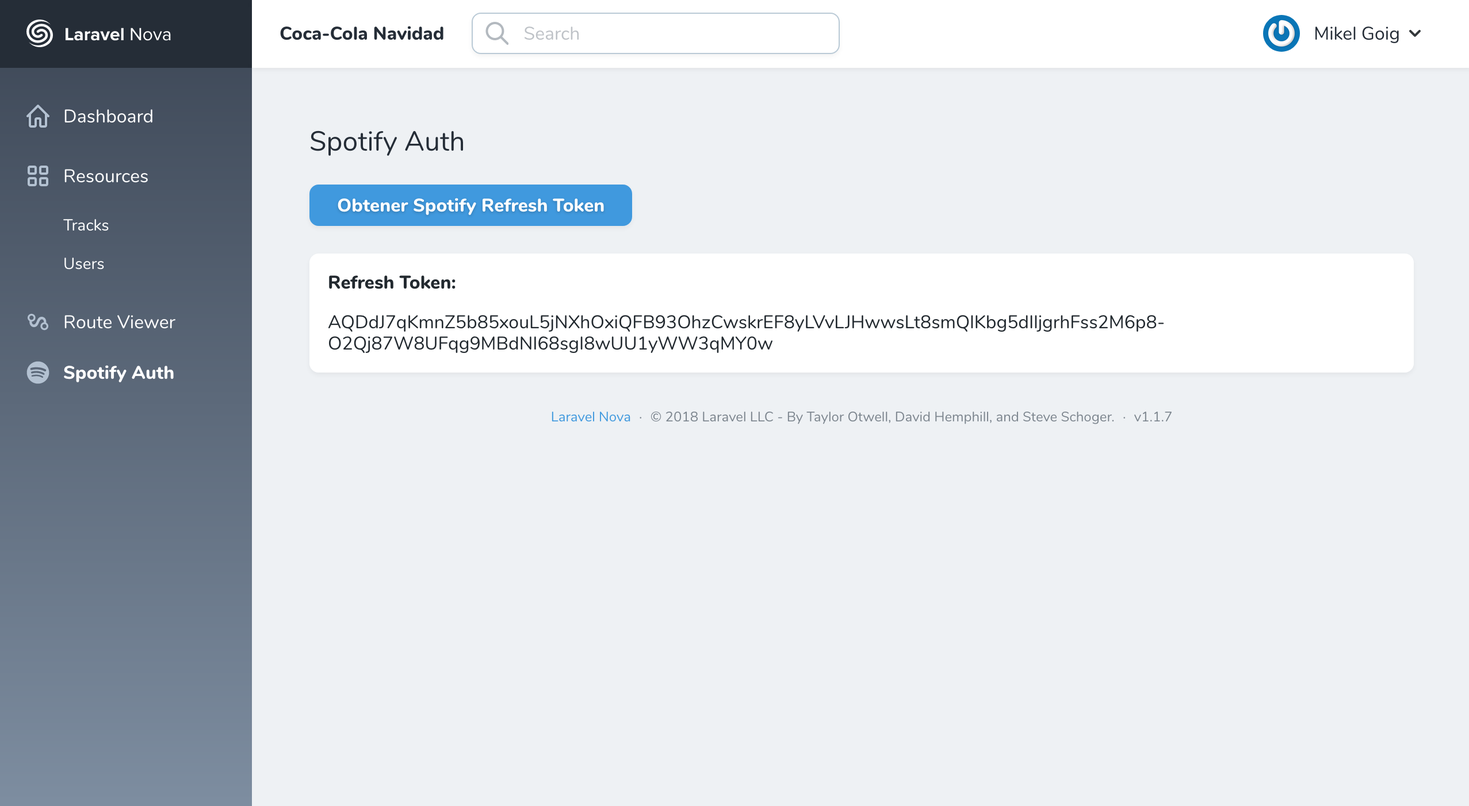
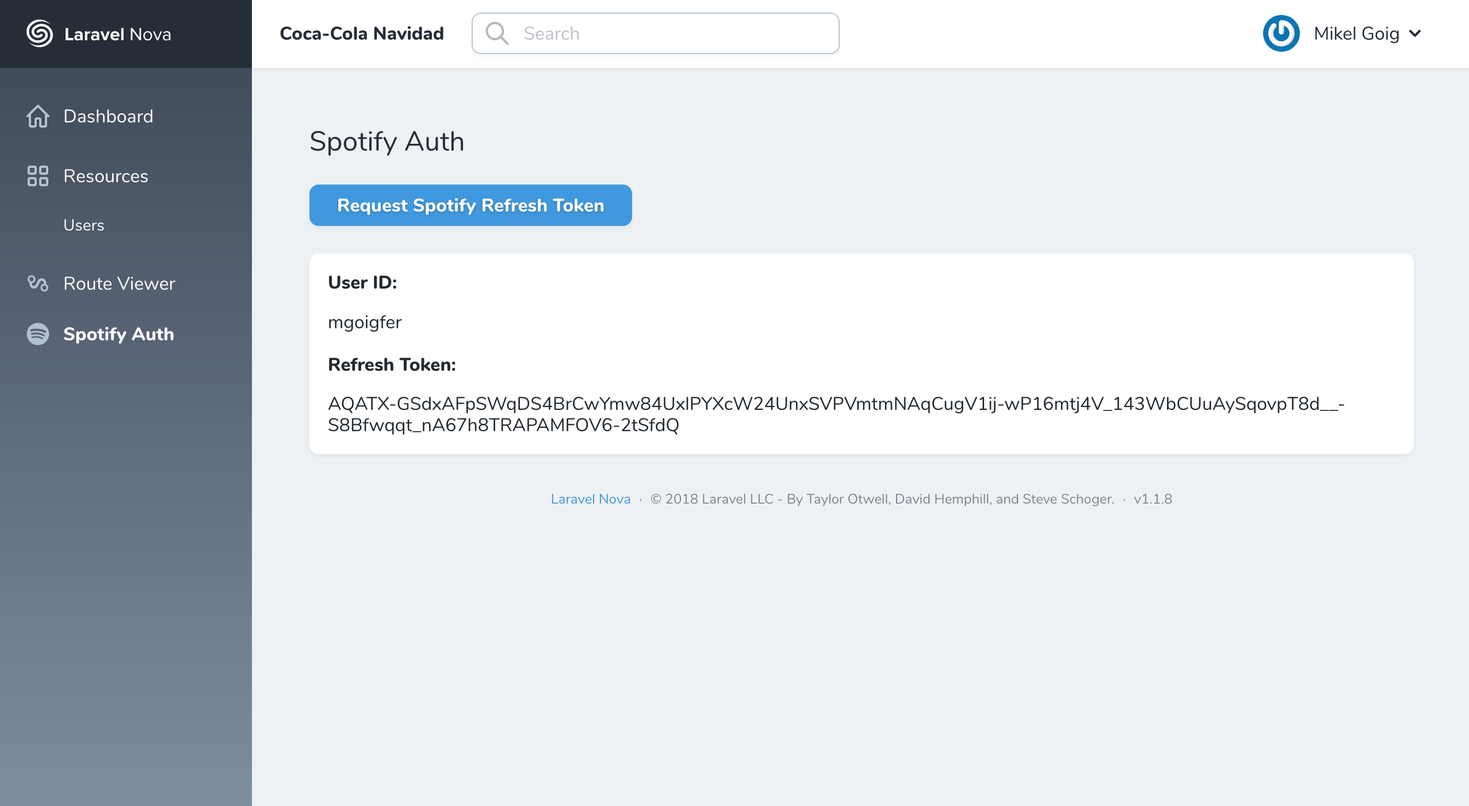
Request Spotify user ID

diff --git a/dist/js/tool.js b/dist/js/tool.js
@@ -1,1 +1,1 @@
-!function(t){var e={};function r(n){if(e[n])return e[n].exports;var o=e[n]={i:n,l:!1,exports:{}};return t[n].call(o.exports,o,o.exports,r),o.l=!0,o.exports}r.m=t,r.c=e,r.d=function(t,e,n){r.o(t,e)||Object.defineProperty(t,e,{configurable:!1,enumerable:!0,get:n})},r.n=function(t){var e=t&&t.__esModule?function(){return t.default}:function(){return t};return r.d(e,"a",e),e},r.o=function(t,e){return Object.prototype.hasOwnProperty.call(t,e)},r.p="",r(r.s=0)}([function(t,e,r){r(1),t.exports=r(9)},function(t,e,r){Nova.booting(function(t,e){e.addRoutes([{name:"nova-spotify-auth-tool",path:"/nova-spotify-auth-tool",component:r(2)}])})},function(t,e,r){var n=r(3)(r(4),r(8),!1,null,null,null);t.exports=n.exports},function(t,e){t.exports=function(t,e,r,n,o,i){var a,c=t=t||{},u=typeof t.default;"object"!==u&&"function"!==u||(a=t,c=t.default);var s,f="function"==typeof c?c.options:c;if(e&&(f.render=e.render,f.staticRenderFns=e.staticRenderFns,f._compiled=!0),r&&(f.functional=!0),o&&(f._scopeId=o),i?(s=function(t){(t=t||this.$vnode&&this.$vnode.ssrContext||this.parent&&this.parent.$vnode&&this.parent.$vnode.ssrContext)||"undefined"==typeof __VUE_SSR_CONTEXT__||(t=__VUE_SSR_CONTEXT__),n&&n.call(this,t),t&&t._registeredComponents&&t._registeredComponents.add(i)},f._ssrRegister=s):n&&(s=n),s){var h=f.functional,l=h?f.render:f.beforeCreate;h?(f._injectStyles=s,f.render=function(t,e){return s.call(e),l(t,e)}):f.beforeCreate=l?[].concat(l,s):[s]}return{esModule:a,exports:c,options:f}}},function(t,e,r){"use strict";Object.defineProperty(e,"__esModule",{value:!0});var n=r(5),o=r.n(n);e.default={data:function(){return{refreshToken:""}},mounted:function(){this.getRefreshToken()},methods:{getRefreshToken:function(){var t,e=(t=o.a.mark(function t(){var e;return o.a.wrap(function(t){for(;;)switch(t.prev=t.next){case 0:return t.next=2,Nova.request().get("/nova-vendor/nova-spotify-auth-tool/refresh-token");case 2:e=t.sent,this.refreshToken=e.data;case 4:case"end":return t.stop()}},t,this)}),function(){var e=t.apply(this,arguments);return new Promise(function(t,r){return function n(o,i){try{var a=e[o](i),c=a.value}catch(t){return void r(t)}if(!a.done)return Promise.resolve(c).then(function(t){n("next",t)},function(t){n("throw",t)});t(c)}("next")})});return function(){return e.apply(this,arguments)}}(),requestSpotifyRefreshToken:function(){window.location.href="/nova-vendor/nova-spotify-auth-tool/auth"}}}},function(t,e,r){t.exports=r(6)},function(t,e,r){var n=function(){return this}()||Function("return this")(),o=n.regeneratorRuntime&&Object.getOwnPropertyNames(n).indexOf("regeneratorRuntime")>=0,i=o&&n.regeneratorRuntime;if(n.regeneratorRuntime=void 0,t.exports=r(7),o)n.regeneratorRuntime=i;else try{delete n.regeneratorRuntime}catch(t){n.regeneratorRuntime=void 0}},function(t,e){!function(e){"use strict";var r,n=Object.prototype,o=n.hasOwnProperty,i="function"==typeof Symbol?Symbol:{},a=i.iterator||"@@iterator",c=i.asyncIterator||"@@asyncIterator",u=i.toStringTag||"@@toStringTag",s="object"==typeof t,f=e.regeneratorRuntime;if(f)s&&(t.exports=f);else{(f=e.regeneratorRuntime=s?t.exports:{}).wrap=x;var h="suspendedStart",l="suspendedYield",p="executing",d="completed",v={},y={};y[a]=function(){return this};var g=Object.getPrototypeOf,m=g&&g(g(C([])));m&&m!==n&&o.call(m,a)&&(y=m);var w=E.prototype=b.prototype=Object.create(y);L.prototype=w.constructor=E,E.constructor=L,E[u]=L.displayName="GeneratorFunction",f.isGeneratorFunction=function(t){var e="function"==typeof t&&t.constructor;return!!e&&(e===L||"GeneratorFunction"===(e.displayName||e.name))},f.mark=function(t){return Object.setPrototypeOf?Object.setPrototypeOf(t,E):(t.__proto__=E,u in t||(t[u]="GeneratorFunction")),t.prototype=Object.create(w),t},f.awrap=function(t){return{__await:t}},R(k.prototype),k.prototype[c]=function(){return this},f.AsyncIterator=k,f.async=function(t,e,r,n){var o=new k(x(t,e,r,n));return f.isGeneratorFunction(e)?o:o.next().then(function(t){return t.done?t.value:o.next()})},R(w),w[u]="Generator",w[a]=function(){return this},w.toString=function(){return"[object Generator]"},f.keys=function(t){var e=[];for(var r in t)e.push(r);return e.reverse(),function r(){for(;e.length;){var n=e.pop();if(n in t)return r.value=n,r.done=!1,r}return r.done=!0,r}},f.values=C,S.prototype={constructor:S,reset:function(t){if(this.prev=0,this.next=0,this.sent=this._sent=r,this.done=!1,this.delegate=null,this.method="next",this.arg=r,this.tryEntries.forEach(j),!t)for(var e in this)"t"===e.charAt(0)&&o.call(this,e)&&!isNaN(+e.slice(1))&&(this[e]=r)},stop:function(){this.done=!0;var t=this.tryEntries[0].completion;if("throw"===t.type)throw t.arg;return this.rval},dispatchException:function(t){if(this.done)throw t;var e=this;function n(n,o){return c.type="throw",c.arg=t,e.next=n,o&&(e.method="next",e.arg=r),!!o}for(var i=this.tryEntries.length-1;i>=0;--i){var a=this.tryEntries[i],c=a.completion;if("root"===a.tryLoc)return n("end");if(a.tryLoc<=this.prev){var u=o.call(a,"catchLoc"),s=o.call(a,"finallyLoc");if(u&&s){if(this.prev<a.catchLoc)return n(a.catchLoc,!0);if(this.prev<a.finallyLoc)return n(a.finallyLoc)}else if(u){if(this.prev<a.catchLoc)return n(a.catchLoc,!0)}else{if(!s)throw new Error("try statement without catch or finally");if(this.prev<a.finallyLoc)return n(a.finallyLoc)}}}},abrupt:function(t,e){for(var r=this.tryEntries.length-1;r>=0;--r){var n=this.tryEntries[r];if(n.tryLoc<=this.prev&&o.call(n,"finallyLoc")&&this.prev<n.finallyLoc){var i=n;break}}i&&("break"===t||"continue"===t)&&i.tryLoc<=e&&e<=i.finallyLoc&&(i=null);var a=i?i.completion:{};return a.type=t,a.arg=e,i?(this.method="next",this.next=i.finallyLoc,v):this.complete(a)},complete:function(t,e){if("throw"===t.type)throw t.arg;return"break"===t.type||"continue"===t.type?this.next=t.arg:"return"===t.type?(this.rval=this.arg=t.arg,this.method="return",this.next="end"):"normal"===t.type&&e&&(this.next=e),v},finish:function(t){for(var e=this.tryEntries.length-1;e>=0;--e){var r=this.tryEntries[e];if(r.finallyLoc===t)return this.complete(r.completion,r.afterLoc),j(r),v}},catch:function(t){for(var e=this.tryEntries.length-1;e>=0;--e){var r=this.tryEntries[e];if(r.tryLoc===t){var n=r.completion;if("throw"===n.type){var o=n.arg;j(r)}return o}}throw new Error("illegal catch attempt")},delegateYield:function(t,e,n){return this.delegate={iterator:C(t),resultName:e,nextLoc:n},"next"===this.method&&(this.arg=r),v}}}function x(t,e,r,n){var o=e&&e.prototype instanceof b?e:b,i=Object.create(o.prototype),a=new S(n||[]);return i._invoke=function(t,e,r){var n=h;return function(o,i){if(n===p)throw new Error("Generator is already running");if(n===d){if("throw"===o)throw i;return N()}for(r.method=o,r.arg=i;;){var a=r.delegate;if(a){var c=O(a,r);if(c){if(c===v)continue;return c}}if("next"===r.method)r.sent=r._sent=r.arg;else if("throw"===r.method){if(n===h)throw n=d,r.arg;r.dispatchException(r.arg)}else"return"===r.method&&r.abrupt("return",r.arg);n=p;var u=_(t,e,r);if("normal"===u.type){if(n=r.done?d:l,u.arg===v)continue;return{value:u.arg,done:r.done}}"throw"===u.type&&(n=d,r.method="throw",r.arg=u.arg)}}}(t,r,a),i}function _(t,e,r){try{return{type:"normal",arg:t.call(e,r)}}catch(t){return{type:"throw",arg:t}}}function b(){}function L(){}function E(){}function R(t){["next","throw","return"].forEach(function(e){t[e]=function(t){return this._invoke(e,t)}})}function k(t){var e;this._invoke=function(r,n){function i(){return new Promise(function(e,i){!function e(r,n,i,a){var c=_(t[r],t,n);if("throw"!==c.type){var u=c.arg,s=u.value;return s&&"object"==typeof s&&o.call(s,"__await")?Promise.resolve(s.__await).then(function(t){e("next",t,i,a)},function(t){e("throw",t,i,a)}):Promise.resolve(s).then(function(t){u.value=t,i(u)},a)}a(c.arg)}(r,n,e,i)})}return e=e?e.then(i,i):i()}}function O(t,e){var n=t.iterator[e.method];if(n===r){if(e.delegate=null,"throw"===e.method){if(t.iterator.return&&(e.method="return",e.arg=r,O(t,e),"throw"===e.method))return v;e.method="throw",e.arg=new TypeError("The iterator does not provide a 'throw' method")}return v}var o=_(n,t.iterator,e.arg);if("throw"===o.type)return e.method="throw",e.arg=o.arg,e.delegate=null,v;var i=o.arg;return i?i.done?(e[t.resultName]=i.value,e.next=t.nextLoc,"return"!==e.method&&(e.method="next",e.arg=r),e.delegate=null,v):i:(e.method="throw",e.arg=new TypeError("iterator result is not an object"),e.delegate=null,v)}function T(t){var e={tryLoc:t[0]};1 in t&&(e.catchLoc=t[1]),2 in t&&(e.finallyLoc=t[2],e.afterLoc=t[3]),this.tryEntries.push(e)}function j(t){var e=t.completion||{};e.type="normal",delete e.arg,t.completion=e}function S(t){this.tryEntries=[{tryLoc:"root"}],t.forEach(T,this),this.reset(!0)}function C(t){if(t){var e=t[a];if(e)return e.call(t);if("function"==typeof t.next)return t;if(!isNaN(t.length)){var n=-1,i=function e(){for(;++n<t.length;)if(o.call(t,n))return e.value=t[n],e.done=!1,e;return e.value=r,e.done=!0,e};return i.next=i}}return{next:N}}function N(){return{value:r,done:!0}}}(function(){return this}()||Function("return this")())},function(t,e){t.exports={render:function(){var t=this,e=t.$createElement,r=t._self._c||e;return r("div",[r("heading",{staticClass:"mb-6"},[t._v("Spotify Auth")]),t._v(" "),r("div",{staticClass:"flex"},[r("span",{staticClass:"mb-6"},[r("button",{staticClass:"btn btn-default btn-primary",on:{click:t.requestSpotifyRefreshToken}},[t._v("\n        Obtener Spotify Refresh Token\n      ")])])]),t._v(" "),r("card",{staticClass:"p-4"},[r("p",{staticClass:"mb-4 font-bold"},[t._v("\n      Refresh Token:\n    ")]),t._v(" "),r("p",{staticStyle:{"overflow-wrap":"break-word"}},[t._v("\n      "+t._s(t.refreshToken)+"\n    ")])])],1)},staticRenderFns:[]}},function(t,e){}]);
+!function(t){var e={};function r(n){if(e[n])return e[n].exports;var o=e[n]={i:n,l:!1,exports:{}};return t[n].call(o.exports,o,o.exports,r),o.l=!0,o.exports}r.m=t,r.c=e,r.d=function(t,e,n){r.o(t,e)||Object.defineProperty(t,e,{configurable:!1,enumerable:!0,get:n})},r.n=function(t){var e=t&&t.__esModule?function(){return t.default}:function(){return t};return r.d(e,"a",e),e},r.o=function(t,e){return Object.prototype.hasOwnProperty.call(t,e)},r.p="",r(r.s=0)}([function(t,e,r){r(1),t.exports=r(9)},function(t,e,r){Nova.booting(function(t,e){e.addRoutes([{name:"nova-spotify-auth-tool",path:"/nova-spotify-auth-tool",component:r(2)}])})},function(t,e,r){var n=r(3)(r(4),r(8),!1,null,null,null);t.exports=n.exports},function(t,e){t.exports=function(t,e,r,n,o,i){var a,u=t=t||{},c=typeof t.default;"object"!==c&&"function"!==c||(a=t,u=t.default);var s,f="function"==typeof u?u.options:u;if(e&&(f.render=e.render,f.staticRenderFns=e.staticRenderFns,f._compiled=!0),r&&(f.functional=!0),o&&(f._scopeId=o),i?(s=function(t){(t=t||this.$vnode&&this.$vnode.ssrContext||this.parent&&this.parent.$vnode&&this.parent.$vnode.ssrContext)||"undefined"==typeof __VUE_SSR_CONTEXT__||(t=__VUE_SSR_CONTEXT__),n&&n.call(this,t),t&&t._registeredComponents&&t._registeredComponents.add(i)},f._ssrRegister=s):n&&(s=n),s){var h=f.functional,l=h?f.render:f.beforeCreate;h?(f._injectStyles=s,f.render=function(t,e){return s.call(e),l(t,e)}):f.beforeCreate=l?[].concat(l,s):[s]}return{esModule:a,exports:u,options:f}}},function(t,e,r){"use strict";Object.defineProperty(e,"__esModule",{value:!0});var n=r(5),o=r.n(n);function i(t){return function(){var e=t.apply(this,arguments);return new Promise(function(t,r){return function n(o,i){try{var a=e[o](i),u=a.value}catch(t){return void r(t)}if(!a.done)return Promise.resolve(u).then(function(t){n("next",t)},function(t){n("throw",t)});t(u)}("next")})}}e.default={data:function(){return{refreshToken:"",userId:""}},mounted:function(){this.getUserId(),this.getRefreshToken()},methods:{getRefreshToken:function(){var t=i(o.a.mark(function t(){var e;return o.a.wrap(function(t){for(;;)switch(t.prev=t.next){case 0:return t.next=2,Nova.request().get("/nova-vendor/nova-spotify-auth-tool/refresh-token");case 2:e=t.sent,this.refreshToken=e.data;case 4:case"end":return t.stop()}},t,this)}));return function(){return t.apply(this,arguments)}}(),getUserId:function(){var t=i(o.a.mark(function t(){var e;return o.a.wrap(function(t){for(;;)switch(t.prev=t.next){case 0:return t.next=2,Nova.request().get("/nova-vendor/nova-spotify-auth-tool/user-id");case 2:e=t.sent,this.userId=e.data;case 4:case"end":return t.stop()}},t,this)}));return function(){return t.apply(this,arguments)}}(),requestSpotifyRefreshToken:function(){window.location.href="/nova-vendor/nova-spotify-auth-tool/auth"}}}},function(t,e,r){t.exports=r(6)},function(t,e,r){var n=function(){return this}()||Function("return this")(),o=n.regeneratorRuntime&&Object.getOwnPropertyNames(n).indexOf("regeneratorRuntime")>=0,i=o&&n.regeneratorRuntime;if(n.regeneratorRuntime=void 0,t.exports=r(7),o)n.regeneratorRuntime=i;else try{delete n.regeneratorRuntime}catch(t){n.regeneratorRuntime=void 0}},function(t,e){!function(e){"use strict";var r,n=Object.prototype,o=n.hasOwnProperty,i="function"==typeof Symbol?Symbol:{},a=i.iterator||"@@iterator",u=i.asyncIterator||"@@asyncIterator",c=i.toStringTag||"@@toStringTag",s="object"==typeof t,f=e.regeneratorRuntime;if(f)s&&(t.exports=f);else{(f=e.regeneratorRuntime=s?t.exports:{}).wrap=_;var h="suspendedStart",l="suspendedYield",p="executing",v="completed",d={},y={};y[a]=function(){return this};var g=Object.getPrototypeOf,m=g&&g(g(C([])));m&&m!==n&&o.call(m,a)&&(y=m);var w=E.prototype=b.prototype=Object.create(y);L.prototype=w.constructor=E,E.constructor=L,E[c]=L.displayName="GeneratorFunction",f.isGeneratorFunction=function(t){var e="function"==typeof t&&t.constructor;return!!e&&(e===L||"GeneratorFunction"===(e.displayName||e.name))},f.mark=function(t){return Object.setPrototypeOf?Object.setPrototypeOf(t,E):(t.__proto__=E,c in t||(t[c]="GeneratorFunction")),t.prototype=Object.create(w),t},f.awrap=function(t){return{__await:t}},k(R.prototype),R.prototype[u]=function(){return this},f.AsyncIterator=R,f.async=function(t,e,r,n){var o=new R(_(t,e,r,n));return f.isGeneratorFunction(e)?o:o.next().then(function(t){return t.done?t.value:o.next()})},k(w),w[c]="Generator",w[a]=function(){return this},w.toString=function(){return"[object Generator]"},f.keys=function(t){var e=[];for(var r in t)e.push(r);return e.reverse(),function r(){for(;e.length;){var n=e.pop();if(n in t)return r.value=n,r.done=!1,r}return r.done=!0,r}},f.values=C,S.prototype={constructor:S,reset:function(t){if(this.prev=0,this.next=0,this.sent=this._sent=r,this.done=!1,this.delegate=null,this.method="next",this.arg=r,this.tryEntries.forEach(j),!t)for(var e in this)"t"===e.charAt(0)&&o.call(this,e)&&!isNaN(+e.slice(1))&&(this[e]=r)},stop:function(){this.done=!0;var t=this.tryEntries[0].completion;if("throw"===t.type)throw t.arg;return this.rval},dispatchException:function(t){if(this.done)throw t;var e=this;function n(n,o){return u.type="throw",u.arg=t,e.next=n,o&&(e.method="next",e.arg=r),!!o}for(var i=this.tryEntries.length-1;i>=0;--i){var a=this.tryEntries[i],u=a.completion;if("root"===a.tryLoc)return n("end");if(a.tryLoc<=this.prev){var c=o.call(a,"catchLoc"),s=o.call(a,"finallyLoc");if(c&&s){if(this.prev<a.catchLoc)return n(a.catchLoc,!0);if(this.prev<a.finallyLoc)return n(a.finallyLoc)}else if(c){if(this.prev<a.catchLoc)return n(a.catchLoc,!0)}else{if(!s)throw new Error("try statement without catch or finally");if(this.prev<a.finallyLoc)return n(a.finallyLoc)}}}},abrupt:function(t,e){for(var r=this.tryEntries.length-1;r>=0;--r){var n=this.tryEntries[r];if(n.tryLoc<=this.prev&&o.call(n,"finallyLoc")&&this.prev<n.finallyLoc){var i=n;break}}i&&("break"===t||"continue"===t)&&i.tryLoc<=e&&e<=i.finallyLoc&&(i=null);var a=i?i.completion:{};return a.type=t,a.arg=e,i?(this.method="next",this.next=i.finallyLoc,d):this.complete(a)},complete:function(t,e){if("throw"===t.type)throw t.arg;return"break"===t.type||"continue"===t.type?this.next=t.arg:"return"===t.type?(this.rval=this.arg=t.arg,this.method="return",this.next="end"):"normal"===t.type&&e&&(this.next=e),d},finish:function(t){for(var e=this.tryEntries.length-1;e>=0;--e){var r=this.tryEntries[e];if(r.finallyLoc===t)return this.complete(r.completion,r.afterLoc),j(r),d}},catch:function(t){for(var e=this.tryEntries.length-1;e>=0;--e){var r=this.tryEntries[e];if(r.tryLoc===t){var n=r.completion;if("throw"===n.type){var o=n.arg;j(r)}return o}}throw new Error("illegal catch attempt")},delegateYield:function(t,e,n){return this.delegate={iterator:C(t),resultName:e,nextLoc:n},"next"===this.method&&(this.arg=r),d}}}function _(t,e,r,n){var o=e&&e.prototype instanceof b?e:b,i=Object.create(o.prototype),a=new S(n||[]);return i._invoke=function(t,e,r){var n=h;return function(o,i){if(n===p)throw new Error("Generator is already running");if(n===v){if("throw"===o)throw i;return N()}for(r.method=o,r.arg=i;;){var a=r.delegate;if(a){var u=O(a,r);if(u){if(u===d)continue;return u}}if("next"===r.method)r.sent=r._sent=r.arg;else if("throw"===r.method){if(n===h)throw n=v,r.arg;r.dispatchException(r.arg)}else"return"===r.method&&r.abrupt("return",r.arg);n=p;var c=x(t,e,r);if("normal"===c.type){if(n=r.done?v:l,c.arg===d)continue;return{value:c.arg,done:r.done}}"throw"===c.type&&(n=v,r.method="throw",r.arg=c.arg)}}}(t,r,a),i}function x(t,e,r){try{return{type:"normal",arg:t.call(e,r)}}catch(t){return{type:"throw",arg:t}}}function b(){}function L(){}function E(){}function k(t){["next","throw","return"].forEach(function(e){t[e]=function(t){return this._invoke(e,t)}})}function R(t){var e;this._invoke=function(r,n){function i(){return new Promise(function(e,i){!function e(r,n,i,a){var u=x(t[r],t,n);if("throw"!==u.type){var c=u.arg,s=c.value;return s&&"object"==typeof s&&o.call(s,"__await")?Promise.resolve(s.__await).then(function(t){e("next",t,i,a)},function(t){e("throw",t,i,a)}):Promise.resolve(s).then(function(t){c.value=t,i(c)},a)}a(u.arg)}(r,n,e,i)})}return e=e?e.then(i,i):i()}}function O(t,e){var n=t.iterator[e.method];if(n===r){if(e.delegate=null,"throw"===e.method){if(t.iterator.return&&(e.method="return",e.arg=r,O(t,e),"throw"===e.method))return d;e.method="throw",e.arg=new TypeError("The iterator does not provide a 'throw' method")}return d}var o=x(n,t.iterator,e.arg);if("throw"===o.type)return e.method="throw",e.arg=o.arg,e.delegate=null,d;var i=o.arg;return i?i.done?(e[t.resultName]=i.value,e.next=t.nextLoc,"return"!==e.method&&(e.method="next",e.arg=r),e.delegate=null,d):i:(e.method="throw",e.arg=new TypeError("iterator result is not an object"),e.delegate=null,d)}function T(t){var e={tryLoc:t[0]};1 in t&&(e.catchLoc=t[1]),2 in t&&(e.finallyLoc=t[2],e.afterLoc=t[3]),this.tryEntries.push(e)}function j(t){var e=t.completion||{};e.type="normal",delete e.arg,t.completion=e}function S(t){this.tryEntries=[{tryLoc:"root"}],t.forEach(T,this),this.reset(!0)}function C(t){if(t){var e=t[a];if(e)return e.call(t);if("function"==typeof t.next)return t;if(!isNaN(t.length)){var n=-1,i=function e(){for(;++n<t.length;)if(o.call(t,n))return e.value=t[n],e.done=!1,e;return e.value=r,e.done=!0,e};return i.next=i}}return{next:N}}function N(){return{value:r,done:!0}}}(function(){return this}()||Function("return this")())},function(t,e){t.exports={render:function(){var t=this,e=t.$createElement,r=t._self._c||e;return r("div",[r("heading",{staticClass:"mb-6"},[t._v("Spotify Auth")]),t._v(" "),r("div",{staticClass:"flex"},[r("span",{staticClass:"mb-6"},[r("button",{staticClass:"btn btn-default btn-primary",on:{click:t.requestSpotifyRefreshToken}},[t._v("\n        Request Spotify Refresh Token\n      ")])])]),t._v(" "),r("card",{staticClass:"p-4"},[r("p",{staticClass:"mb-4 font-bold"},[t._v("\n      User ID:\n    ")]),t._v(" "),r("p",{staticStyle:{"overflow-wrap":"break-word"}},[t._v("\n      "+t._s(t.userId)+"\n    ")]),t._v(" "),r("br"),t._v(" "),r("p",{staticClass:"mb-4 font-bold"},[t._v("\n      Refresh Token:\n    ")]),t._v(" "),r("p",{staticStyle:{"overflow-wrap":"break-word"}},[t._v("\n      "+t._s(t.refreshToken)+"\n    ")])])],1)},staticRenderFns:[]}},function(t,e){}]);

diff --git a/resources/js/components/Tool.vue b/resources/js/components/Tool.vue
@@ -8,12 +8,22 @@
           class="btn btn-default btn-primary"
           @click="requestSpotifyRefreshToken"
         >
-          Obtener Spotify Refresh Token
+          Request Spotify Refresh Token
         </button>
       </span>
     </div>
 
     <card class="p-4">
+      <p class="mb-4 font-bold">
+        User ID:
+      </p>
+
+      <p style="overflow-wrap: break-word;">
+        {{ userId }}
+      </p>
+
+      <br>
+
       <p class="mb-4 font-bold">
         Refresh Token:
       </p>
@@ -32,16 +42,22 @@ export default {
   data() {
     return {
       refreshToken: '',
+      userId: '',
     };
   },
 
   mounted() {
+    this.getUserId();
     this.getRefreshToken();
   },
 
   methods: {
     async getRefreshToken() {
       ({ data: this.refreshToken } = await Nova.request().get('/nova-vendor/nova-spotify-auth-tool/refresh-token'));
+    },
+
+    async getUserId() {
+      ({ data: this.userId } = await Nova.request().get('/nova-vendor/nova-spotify-auth-tool/user-id'));
     },
 
     requestSpotifyRefreshToken() {

diff --git a/src/Models/Spotify.php b/src/Models/Spotify.php
@@ -1,0 +1,114 @@
+<?php
+
+namespace Mgoigfer\SpotifyAuthTool\Models;
+
+use Illuminate\Database\Eloquent\Model;
+use Illuminate\Database\Eloquent\ModelNotFoundException;
+
+class Spotify extends Model
+{
+    /*
+    |--------------------------------------------------------------------------
+    | Model Properties
+    |--------------------------------------------------------------------------
+    */
+
+    /**
+     * The table associated with the model.
+     *
+     * @var string
+     */
+    protected $table = 'spotify';
+
+    /**
+     * The primary key for the model.
+     *
+     * @var string
+     */
+    protected $primaryKey = 'key';
+
+    /**
+     * The "type" of the auto-incrementing ID.
+     *
+     * @var string
+     */
+    protected $keyType = 'string';
+
+    /**
+     * Indicates if the IDs are auto-incrementing.
+     *
+     * @var bool
+     */
+    public $incrementing = false;
+
+    /**
+     * Indicates if the model should be timestamped.
+     *
+     * @var bool
+     */
+    public $timestamps = false;
+
+    /**
+     * The guarded attributes on the model.
+     *
+     * @var array
+     */
+    protected $guarded = [];
+
+    /**
+     * Convert the model instance to an array.
+     *
+     * @return array
+     */
+    public function toArray()
+    {
+        return [
+            'key' => $this->key,
+            'value' => $this->value,
+        ];
+    }
+
+    /**
+     * Get the route key for the model.
+     *
+     * @return string The route key
+     */
+    public function getRouteKeyName()
+    {
+        return 'key';
+    }
+
+    /*
+    |--------------------------------------------------------------------------
+    | Model Static Methods
+    |--------------------------------------------------------------------------
+    */
+
+    /**
+     * Get the Spotify user ID.
+     *
+     * @return string
+     */
+    public static function userId()
+    {
+        try {
+            return self::where('key', 'user_id')->firstOrFail()->value;
+        } catch (ModelNotFoundException $ex) {
+            return '';
+        }
+    }
+
+    /**
+     * Get the refresh token.
+     *
+     * @return string
+     */
+    public static function refreshToken()
+    {
+        try {
+            return self::where('key', 'refresh_token')->firstOrFail()->value;
+        } catch (ModelNotFoundException $ex) {
+            return '';
+        }
+    }
+}

diff --git a/src/Http/Controllers/SpotifyAuthToolController.php b/src/Http/Controllers/SpotifyAuthToolController.php
@@ -2,11 +2,17 @@
 
 namespace Mgoigfer\SpotifyAuthTool\Http\Controllers;
 
-use DB;
 use Illuminate\Routing\Controller;
+use Mgoigfer\SpotifyAuthTool\Models\Spotify;
 
 class SpotifyAuthToolController extends Controller
 {
+    /*
+    |--------------------------------------------------------------------------
+    | Web
+    |--------------------------------------------------------------------------
+    */
+
     /**
      * Spotify authentication.
      *
@@ -20,19 +26,56 @@ class SpotifyAuthToolController extends Controller
             'show_dialog' => true,
         ]);
 
-        $refresh_token = $spotify->requestRefreshToken();
+        // Request an access token. The user will be redirected to Spotify to
+        // approve the Spotify app.
+        $accessToken = $spotify->requestAccessToken();
 
-        if (DB::table('spotify')->where('key', 'refresh_token')->first()) {
-            DB::table('spotify')->where('key', 'refresh_token')->update([
-                'value' => $refresh_token,
-            ]);
-        } else {
-            DB::table('spotify')->insert([
-                'key' => 'refresh_token',
-                'value' => $refresh_token,
-            ]);
-        }
+        // Authenticate Spotify API.
+        $spotify->api->setAccessToken($accessToken);
+
+        $me = $spotify->api->me();
+        $refresh_token = $spotify->session->getRefreshToken();
+
+        Spotify::updateOrCreate(
+            ['key' => 'user_id'],
+            ['value' => $me->id]
+        );
+
+        Spotify::updateOrCreate(
+            ['key' => 'refresh_token'],
+            ['value' => $refresh_token]
+        );
 
         return redirect('nova/nova-spotify-auth-tool');
+    }
+
+    /*
+    |--------------------------------------------------------------------------
+    | API
+    |--------------------------------------------------------------------------
+    */
+
+    /**
+     * Get Spotify user ID.
+     *
+     * @return \Illuminate\Http\JsonResponse
+     */
+    public function getUserId()
+    {
+        $userId = Spotify::userId();
+
+        return response()->json($userId);
+    }
+
+    /**
+     * Get refresh token.
+     *
+     * @return \Illuminate\Http\JsonResponse
+     */
+    public function getRefreshToken()
+    {
+        $refreshToken = Spotify::refreshToken();
+
+        return response()->json($refreshToken);
     }
 }

diff --git a/routes/api.php b/routes/api.php
@@ -1,6 +1,7 @@
 <?php
 
 use Illuminate\Support\Facades\Route;
+use Mgoigfer\SpotifyAuthTool\Http\Controllers\SpotifyAuthToolController;
 
 /*
 |--------------------------------------------------------------------------
@@ -13,4 +14,5 @@ use Illuminate\Support\Facades\Route;
 |
 */
 
-Route::get('/refresh-token', 'Mgoigfer\SpotifyAuthTool\Http\Controllers\SpotifyAuthToolApiController@getRefreshToken');
+Route::get('/user-id', SpotifyAuthToolController::class.'@getUserId');
+Route::get('/refresh-token', SpotifyAuthToolController::class.'@getRefreshToken');

diff --git a/CHANGELOG.md b/CHANGELOG.md
@@ -4,6 +4,7 @@ All notable changes to `nova-spotify-auth-tool` will be documented in this file.
 
 ## 0.1.4 - 2018-11-26
 
+- Request Spotify user ID.
 - Force the user to approve the Spotify app.
 - Update README.
 
